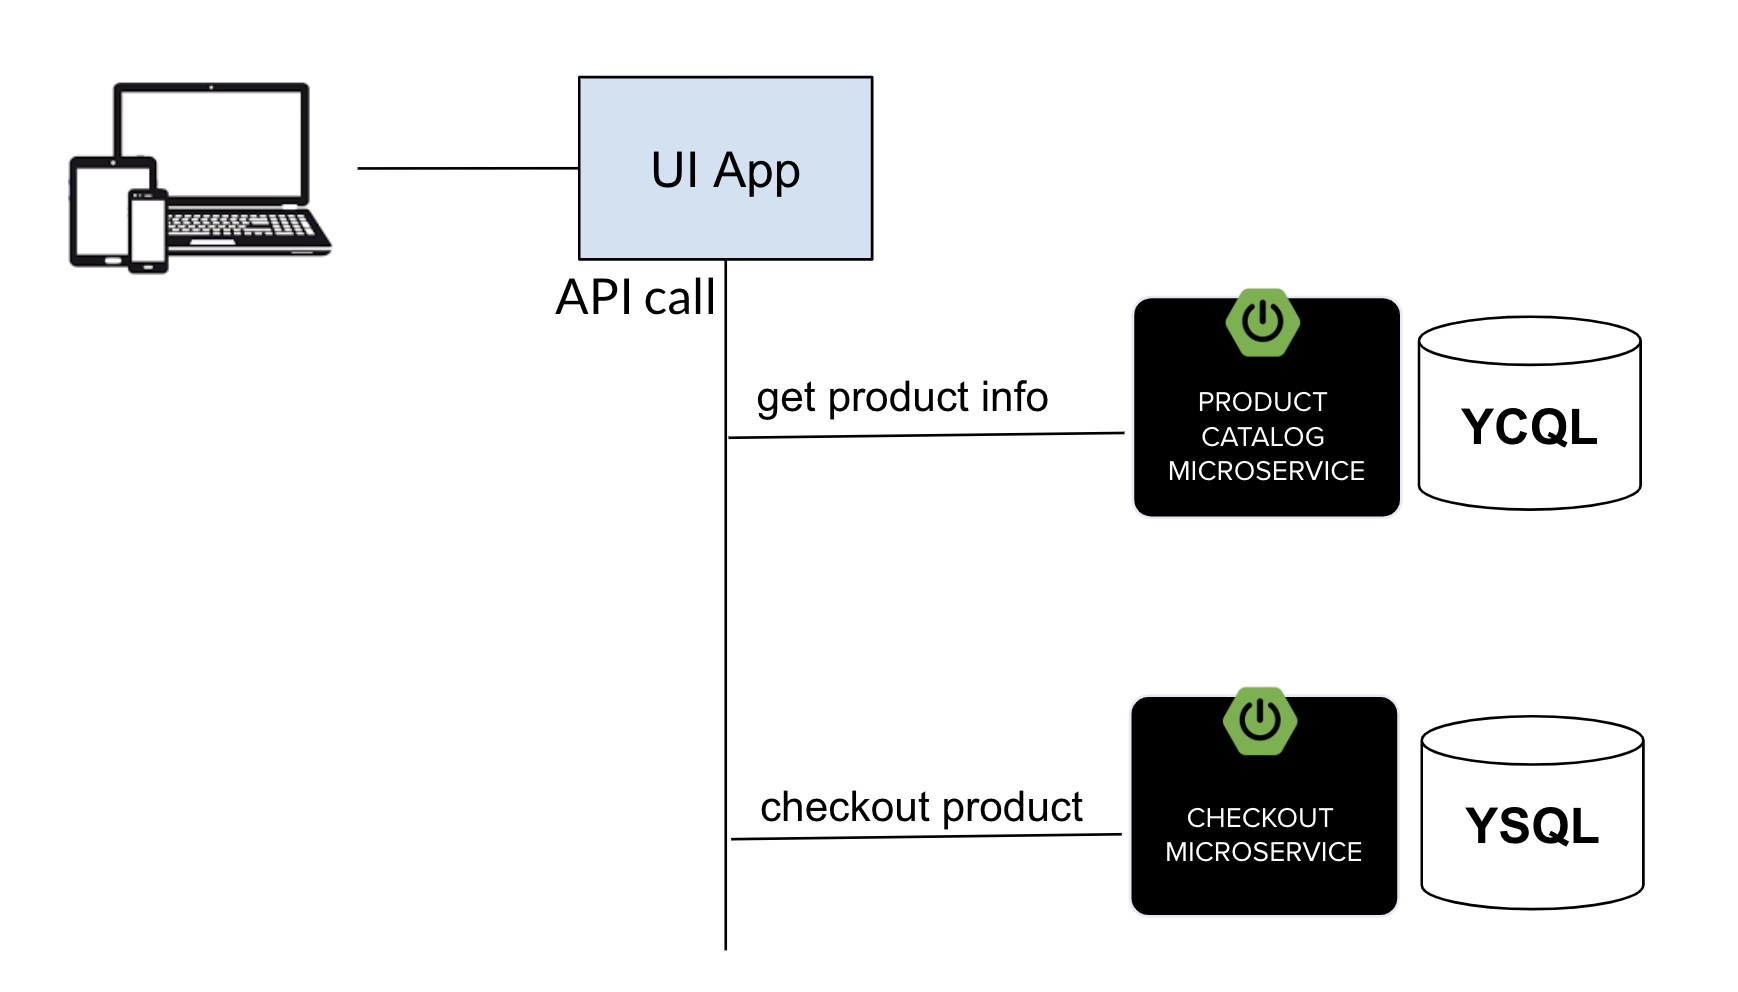
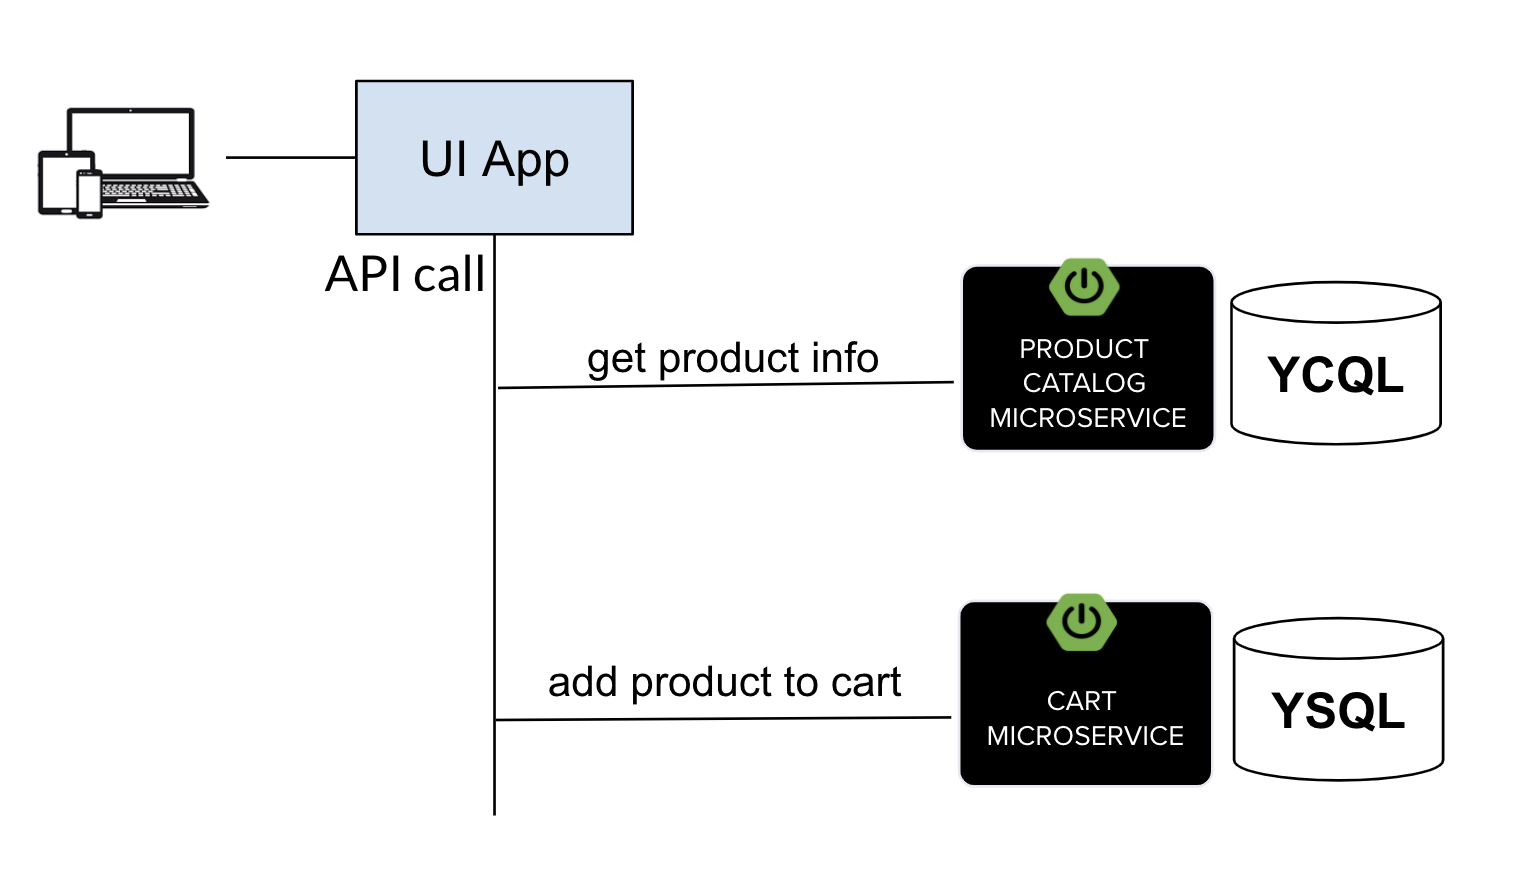
updating workshop contents

Changed region(s): [[0.3088, 0.6735, 0.9573, 0.949], [0.0, 0.0612, 0.525, 0.3367], [0.3088, 0.2755, 0.9573, 0.5204]]

diff --git a/README.md b/README.md
@@ -1,21 +1,22 @@
-# Spring Developer Workshop for YugabyteDB and VMware Tanzu Kubernetes Grid (TKG)
+# Spring Developer Workshop for YugabyteDB and VMware Tanzu
 
-This workshop will provide developers with hands on experience in building Spring Boot applications 
-with YugabyteDB database. In this session we'll be implementing a Retail catalog lookup application 
-use-case which is a low-latency, resilient and HA lookup web-service. This is a hands-on session 
-where developers will incrementally develop Product catalog and Checkout microservice using YugabyteDB 
-as a backing transactional database. Session includes presentations and hands-on labs.
+### What will we build in this workshop?
+
+In this workshop, we'll look at how to build data-driven microservices apps using Spring Boot and Yugabyte Distributed SQL database. This will be focused on building a Retail Catalog lookup application use-case which is a low-latency, resilient, and HA lookup web-service. It will be a two hours hands-on session where developers will get started with developing the Product Catalog and Checkout microservices using familar spring modules like Spring Web, Spring Data Cassandra and Spring Data JPA. YugabyteDB cluster access will be provided to all the participants via options like Yugabyte Cloud or Yugabyte cluster deployed on the customer environment. 
+
+Session includes walk through of YugabyteDB concepts for app developers, slide deck and hands-on labs.
 
 
 ## Retail Catalog Lookup application
+
 
 ![Architecture of Retail Catalog Lookup application](images/retail-catalog-app.png)
 
 
  Microservice         | YugabyteDB API | Spring Projects | Description           |
 | -------------------- | ---------------- | ---------------- | --------------------- |
-| [Product Catalog](https://github.com/yugabyte/spring-tanzu-workshop/tree/master/product-catalog-microservice) | YCQL | Spring Web, Spring Data Cassandra | This microservice serves the product catalog information. It uses Spring Data Cassandra repositories for querying the product catalog information stored in YugabyteDB YCQL Table.
-| [Checkout](https://github.com/yugabyte/spring-tanzu-workshop/tree/master/checkout-microservice) | YSQL | Spring Web, Spring Data JPA | This microservice handles the product checkout functionality. It uses Spring Data JPA repositories for transactional commit into YugabyteDB YSQL Tables.
+| [Product Catalog](https://github.com/yugabyte/spring-tanzu-workshop/tree/master/product-catalog-microservice) | YCQL | Spring Boot, Spring Web, Spring Data Cassandra | This microservice serves the product catalog lookup information. It uses Spring Data Cassandra repositories for querying the product catalog information stored in YugabyteDB YCQL Table.
+| [Cart](https://github.com/yugabyte/spring-tanzu-workshop/tree/master/cart-microservice) | YSQL | Spring Boot, Spring Web, Spring Data JPA | This microservice handles the shopping cart functionality. It uses Spring Data JPA repositories for transactional commit into YugabyteDB YSQL Tables.
 
 
 ## Agenda
@@ -32,7 +33,7 @@ as a backing transactional database. Session includes presentations and hands-on
 - Implementing Checkout Microservice using Yugabyte SQL API (RDBMS)
 
 
-- Putting it all together on TKG
+- Putting it all together on Tanzu environment
 
 ## Prerequisites
 

diff --git a/cart-microservice/README.md b/cart-microservice/README.md
@@ -1,0 +1,1 @@
+# Cart Microservice
